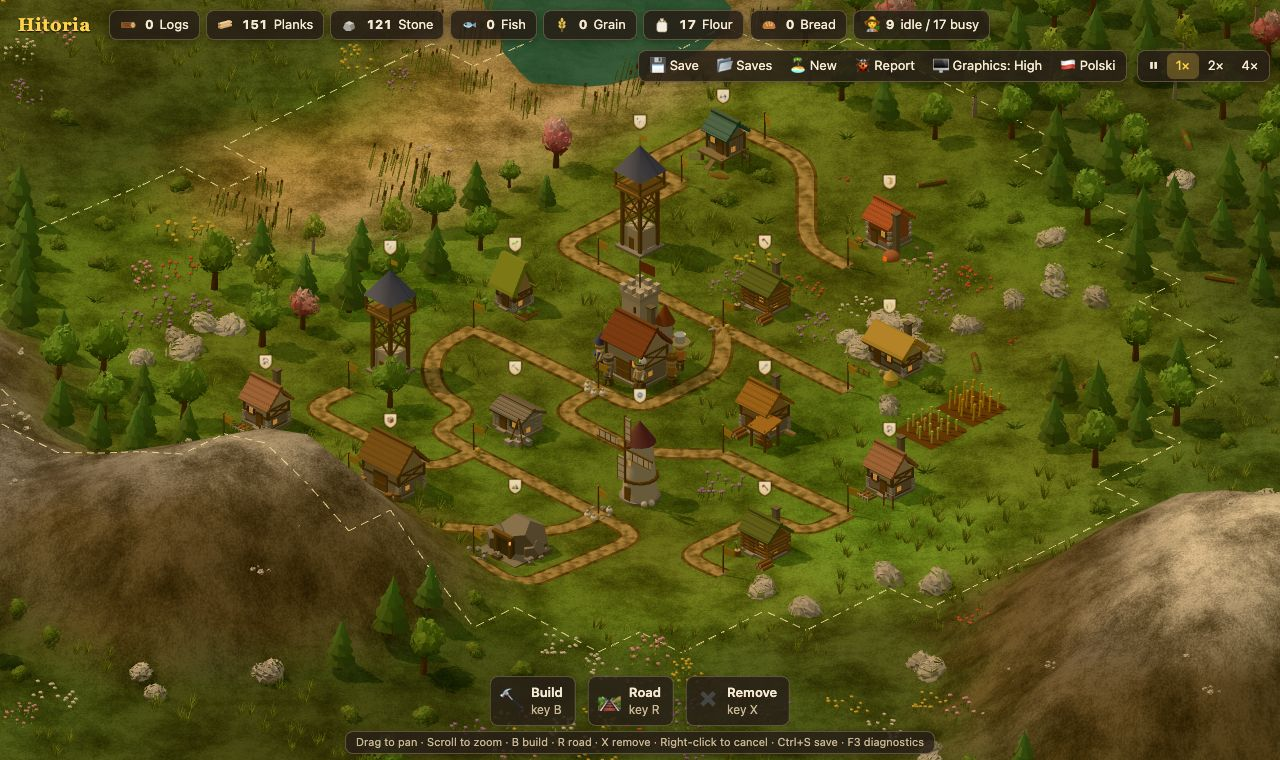
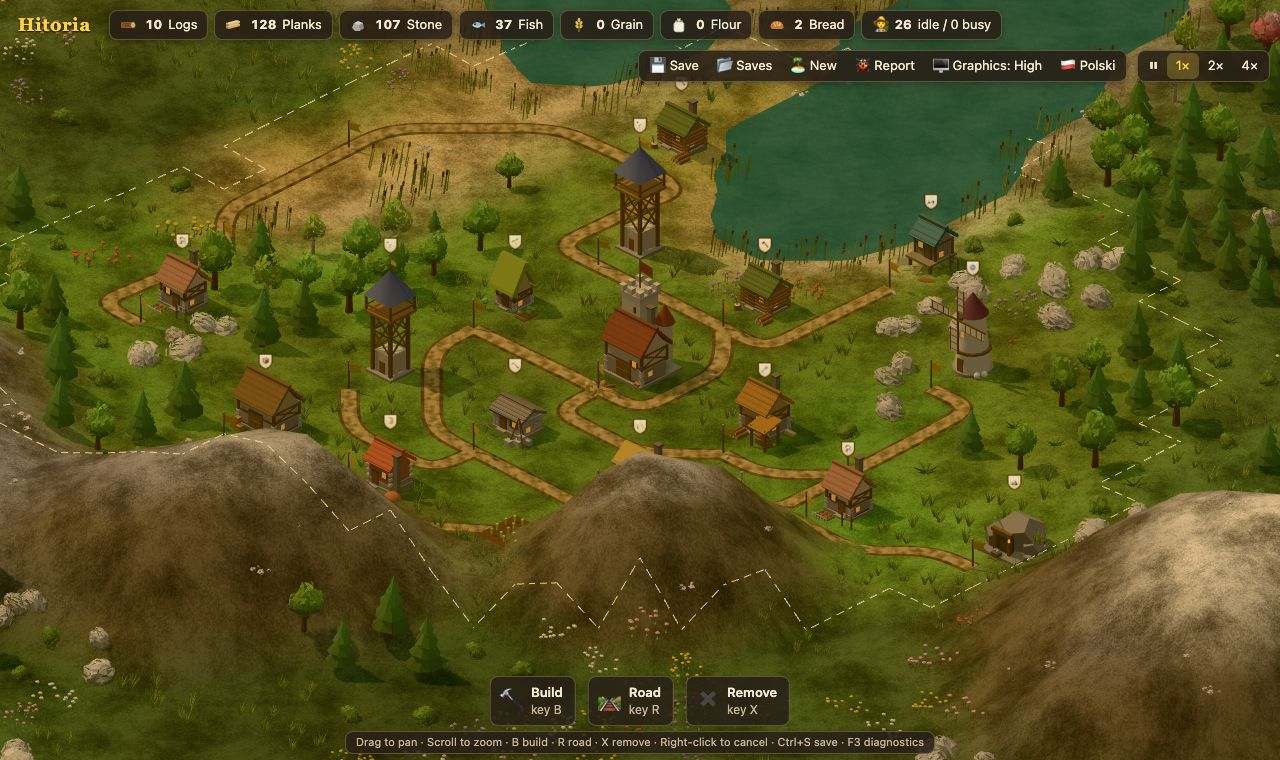
Start every island near a mountain and a bay
Every new map puts a mountain and a bay to the open sea inside the HQ's
land, with room for a stone mine and a fisher. Natural mountains keep
clear of the HQ, so no start is boxed in.

diff --git a/src/world.ts b/src/world.ts
@@ -20,6 +20,15 @@ export interface Tile {
 export const W = 64;
 export const H = 64;
 
+// Natural mountains stay this far from the start, so the HQ always has room around it.
+const OPEN = 7;
+// The guaranteed mountain: how far its centre sits from the start, and how wide it is.
+const PEAK_AWAY = 7.5;
+const PEAK_SIZE = 2.2;
+// The guaranteed bay: how far its head sits from the start, and how wide its water is.
+const BAY_AWAY = 7;
+const BAY_WIDTH = 1.8;
+
 export function rng(seed: number) {
   return () => {
     seed = (seed + 0x6d2b79f5) | 0;
@@ -49,12 +58,15 @@ export class World {
   tiles: Tile[] = [];
   territory = new Uint8Array(W * H);
   start = { x: W / 2, y: H / 2 };
+  private peak = this.start;
 
   constructor(seed: number) {
     const rand = rng(seed);
     const n1 = noise(rand, 16), n2 = noise(rand, 8), n3 = noise(rand, 4);
     const forest = noise(rand, 7), rocks = noise(rand, 5), tint = noise(rand, 3);
     const { x: sx, y: sy } = this.start;
+    const { peak, bay, out } = this.landmarks(seed);
+    this.peak = peak;
 
     for (let y = 0; y < H; y++) {
       for (let x = 0; x < W; x++) {
@@ -63,6 +75,14 @@ export class World {
         h = h + 0.2 - d * d * 0.55;
         const near = Math.hypot(x - sx, y - sy);
         if (near < 8) h = h * (near / 8) + 0.5 * (1 - near / 8);
+        if (near < OPEN) h = Math.min(h, 0.66); // room to build, whatever the noise says
+        const toPeak = Math.hypot(x - peak.x, y - peak.y);
+        if (toPeak < PEAK_SIZE) h = Math.max(h, 0.8 - toPeak * 0.03);
+        // The bay runs from its head straight out to the open sea, with a sandy shore.
+        const along = Math.max(0, (x - bay.x) * out.x + (y - bay.y) * out.y);
+        const toBay = Math.hypot(x - bay.x - out.x * along, y - bay.y - out.y * along);
+        if (toBay < BAY_WIDTH) h = Math.min(h, 0.24);
+        else if (toBay < BAY_WIDTH + 1.2) h = Math.min(h, 0.32);
         const t: Terrain = h < 0.3 ? 'water' : h < 0.34 ? 'sand' : h > 0.7 ? 'mountain' : 'grass';
         this.tiles.push({ t, h, tree: 0, conifer: false, rock: 0, crop: 0, plant: '', b: 0, flag: 0, road: 0, col: '' });
       }
@@ -78,7 +98,9 @@ export class World {
           tile.t = 'grass';
           tile.h = Math.min(0.6, Math.max(0.42, tile.h));
         }
-        if (tile.t !== 'grass' || near < 3.5) continue;
+        // The foot of the guaranteed mountain stays clear, so a stone mine fits there.
+        const foot = Math.hypot(x - this.peak.x, y - this.peak.y) < PEAK_SIZE + 2.5;
+        if (tile.t !== 'grass' || near < 3.5 || foot) continue;
         if (Math.hypot(x - grove.x, y - grove.y) < 2.8 && rand() < 0.8) tile.tree = 1;
         else if (Math.hypot(x - quarry.x, y - quarry.y) < 1.9) tile.rock = 4 + Math.floor(rand() * 3);
         else if ((forest(x, y) > 0.56 && rand() < 0.75) || rand() < 0.025) tile.tree = 1;
@@ -102,6 +124,24 @@ export class World {
       }
     }
     this.sowPlants(seed);
+  }
+
+  // Where the guaranteed mountain and the head of the bay sit, in the HQ's land. They sit on
+  // opposite sides, away from the guaranteed grove and quarry. They take their own random
+  // numbers, so the rest of the map keeps its shape.
+  private landmarks(seed: number) {
+    const rand = rng(seed ^ 0x1a4d);
+    const flip = rand() < 0.5;
+    const side = (centre: number) => ((centre + (rand() - 0.5) * 60) * Math.PI) / 180;
+    const peakAngle = side(flip ? 55 : 235);
+    const bayAngle = side(flip ? 235 : 55);
+    const { x: sx, y: sy } = this.start;
+    const out = { x: Math.cos(bayAngle), y: Math.sin(bayAngle) };
+    return {
+      peak: { x: sx + Math.cos(peakAngle) * PEAK_AWAY, y: sy + Math.sin(peakAngle) * PEAK_AWAY },
+      bay: { x: sx + out.x * BAY_AWAY, y: sy + out.y * BAY_AWAY },
+      out,
+    };
   }
 
   // Plants use their own random numbers, so adding them moves no tree or boulder on a map.

diff --git a/src/world.test.ts b/src/world.test.ts
@@ -51,6 +51,39 @@ describe('World', () => {
   }
 });
 
+// The HQ's land reaches 9 tiles.
+const LAND = 9;
+const SEEDS = [1, 2, 3, 7, 42, 99, 12345, 987654321];
+
+function inLand(w: World, x: number, y: number) {
+  return w.inside(x, y) && Math.hypot(x - w.start.x, y - w.start.y) <= LAND;
+}
+
+// Water in the HQ's land joins the map edge through water, so it is a bay, not a pond.
+function bayJoinsSea(w: World) {
+  const seen = new Set<number>();
+  const todo: [number, number][] = [];
+  for (let y = 0; y < H; y++)
+    for (let x = 0; x < W; x++)
+      if (inLand(w, x, y) && w.at(x, y).t === 'water') todo.push([x, y]);
+  while (todo.length) {
+    const [x, y] = todo.pop()!;
+    if (!w.inside(x, y) || seen.has(y * W + x) || w.at(x, y).t !== 'water') continue;
+    if (x === 0 || y === 0 || x === W - 1 || y === H - 1) return true;
+    seen.add(y * W + x);
+    todo.push([x + 1, y], [x - 1, y], [x, y + 1], [x, y - 1]);
+  }
+  return false;
+}
+
+describe('start near a mountain and shore', () => {
+  for (const seed of SEEDS) {
+    test(`seed ${seed} has a bay that joins the open sea`, () => {
+      expect(bayJoinsSea(new World(seed))).toBe(true);
+    });
+  }
+});
+
 describe('isometric projection', () => {
   test('fromIso undoes toIso', () => {
     for (const [x, y] of [[0, 0], [3, 7], [12.5, 0.25], [-4, 9]]) {

diff --git a/src/game/start.test.ts b/src/game/start.test.ts
@@ -1,0 +1,26 @@
+import { describe, expect, test } from 'bun:test';
+import { Game } from './index';
+import type { BType } from './defs';
+
+// Every new map lets you build a stone mine and a fisher in the HQ's land from the start,
+// with a few spots to choose from.
+const SEEDS = [1, 2, 3, 7, 42, 99, 12345, 987654321];
+
+function spots(g: Game, type: BType) {
+  let n = 0;
+  for (let y = g.hq.y - 10; y <= g.hq.y + 10; y++)
+    for (let x = g.hq.x - 10; x <= g.hq.x + 10; x++) if (!g.canPlace(type, x, y)) n++;
+  return n;
+}
+
+describe('start near a mountain and shore', () => {
+  for (const seed of SEEDS) {
+    test(`seed ${seed} has spots for a stone mine`, () => {
+      expect(spots(new Game(seed), 'mine')).toBeGreaterThanOrEqual(3);
+    });
+
+    test(`seed ${seed} has spots for a fisher`, () => {
+      expect(spots(new Game(seed), 'fisher')).toBeGreaterThanOrEqual(3);
+    });
+  }
+});

diff --git a/README.md b/README.md
@@ -4,7 +4,7 @@ A peaceful 2.5D settlement builder for the browser, inspired by *The Settlers*.
 
 **Play it in your browser:** https://koszcz.github.io/hitoria/
 
-![A village around the HQ keep: huts, a windmill, two lookout towers, a stone mine and grain fields, all joined by roads](docs/screenshot.jpg)
+![A village around the HQ keep, beside a bay and below a mountain: huts, a windmill, two lookout towers and a stone mine, all joined by roads](docs/screenshot.jpg)
 
 ## How to play
 
@@ -24,6 +24,7 @@ economy. Nobody attacks you.
    - A sawmill (`4`) turns logs into planks. You need planks for every new building.
    - A lookout tower (`5`) expands your land, so you have room for more.
    - Fishers, farms, mills and bakeries make food. Houses turn food into new settlers.
+   - Your starting land always has a mountain for a stone mine and a bay for a fisher.
 
 Every building needs a road to the HQ. Without one, no goods arrive and the builder or worker
 waits. A sign with a crossed-out road floats over any building that has no road. Click a building
@@ -140,7 +141,7 @@ Press F3 to see the level, and how much the game draws each frame.
 
 | File | What it does |
 | --- | --- |
-| `src/world.ts` | Seeded map generation: island, forests, boulders, mountains |
+| `src/world.ts` | Seeded map generation: island, forests, boulders, mountains, and the mountain and bay every start gets |
 | `src/game/` | Simulation: buildings, roads, settlers, carriers, food and saving |
 | `src/path.ts` | A* pathfinding on the tile grid |
 | `src/render/` | Three.js 3D renderer: terrain, water, buildings, settlers, overlays. Keeps the isometric camera angle. `looks.ts` gives each building its body shape and colours |

diff --git a/ideas/backlog.md b/ideas/backlog.md
@@ -10,7 +10,7 @@ Nothing right now.
 
 At most 3 ideas, in the order we build them.
 
-- **Start near a mountain and shore**: every map puts a mountain and the shore within early reach of the HQ. *Fun 2 · Effort S*
+*Empty.*
 
 ## Inbox
 
@@ -65,6 +65,7 @@ Triaged, but not next.
 
 Newest first, with the date it was merged.
 
+- **Start near a mountain and shore**: every map puts a mountain and a bay to the open sea in the HQ's land, with room for a stone mine and a fisher. *2026-10-31*
 - **Buildings that look different**: each building has its own shape and colours, so you can tell them apart at a glance. *2026-10-31*
 - **Auto road for new buildings**: a new building gets the shortest road to the nearest joined flag or road. *2026-10-31*
 - **Population**: houses turn fish or bread into new settlers, up to 4 per house. *2026-10-31*

diff --git a/changelog/entries/2026-10-31-start-near-mountain-and-shore.md b/changelog/entries/2026-10-31-start-near-mountain-and-shore.md
@@ -1,0 +1,14 @@
+---
+title: Start near a mountain and shore
+date: '2026-10-31 17:46'
+shots:
+  - name: start
+    caption: A new island, with a mountain and a bay inside your starting land.
+    steps:
+      - wait: 1500
+---
+Every new island now has a mountain and a bay inside your starting land. The bay runs out to the
+open sea. You can build a stone mine and a fisher from the start, without a lookout tower first.
+
+The land right around your headquarters is always open, so mountains no longer box it in.
+The same island number now gives a different map than before. Your saved games stay the same.
